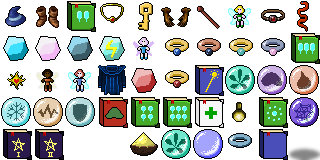
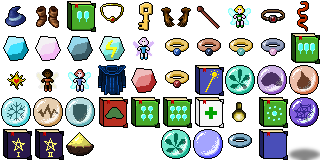
ADD New Item: Sulfur

Changed region(s): [[0.4062, 0.8125, 0.5, 1.0], [0.1875, 0.8125, 0.3125, 0.9688]]

diff --git a/src/Items.h b/src/Items.h
@@ -121,6 +121,7 @@ enum enumItemType
   ItemSpellWeb,
   ItemBookMagicI,
   ItemBookMagicII,
+  ItemSulfur,
 
   NUMBER_ITEMS
 };
@@ -359,6 +360,10 @@ const itemStuct items[NUMBER_ITEMS] =
     ItemBookMagicII, "item_book_magic_ii", "item_book_magic_ii_desc",
     35, true, FamiliarNone, true, true, true, 4, RarityRare, AlignmentNone, -1, ShotTypeStandard, SpellNone
   },
+  {
+    ItemSulfur, "item_sulfur", "item_sulfur_desc",
+    35, true, FamiliarNone, true, true, true, 2, RarityRare, AlignmentNone, -1, ShotTypeStandard, SpellNone
+  },
 };
 
 /** Item equipment type enum
@@ -407,6 +412,7 @@ enum item_equip_enum {
   EQUIP_SPELL_WEB,
   EQUIP_BOOK_MAGIC_I,
   EQUIP_BOOK_MAGIC_II,
+  EQUIP_SULFUR,
 
   NUMBER_EQUIP_ITEMS
   };

diff --git a/src/BaseCreatureEntity.cpp b/src/BaseCreatureEntity.cpp
@@ -485,11 +485,11 @@ int BaseCreatureEntity::hurt(int damages, enumShotType hurtingType, int level, b
     {
       hp = 0;
       // exploding ?
-      // TODO
-      //if (SULFUR && canExplode)
-      //{
-      //  if (rand() % 100 < 25) willExplode = true;
-      //}
+      if (game().getPlayer()->isEquiped(EQUIP_SULFUR) && canExplode)
+      {
+        int luck = hurtingType == ShotTypeFire ? 33 : 25;
+        if (rand() % 100 < luck) willExplode = true;
+      }
 
       prepareDying();
     }
